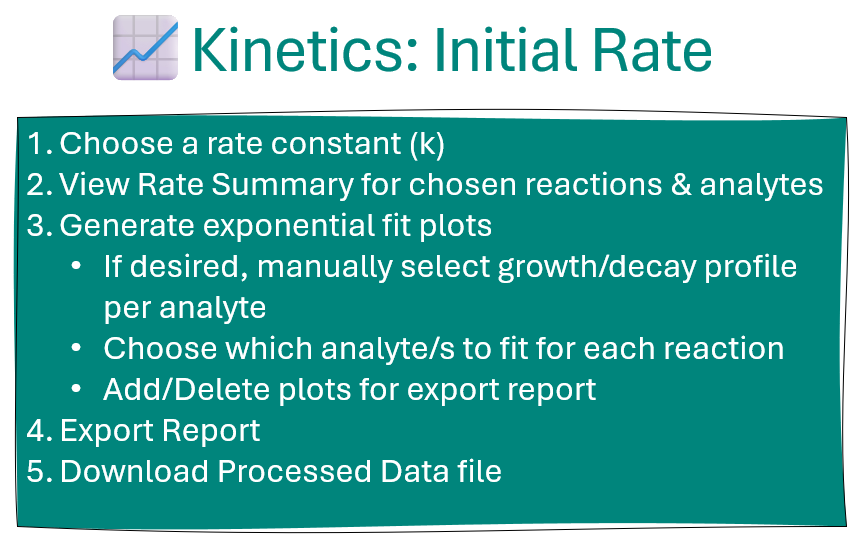
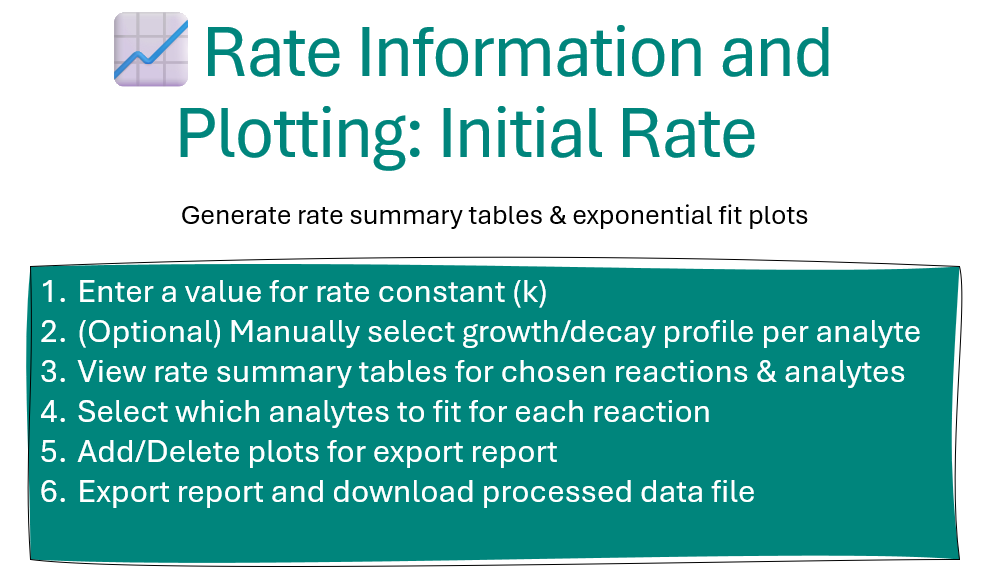
aligned instructions with final changes

diff --git a/src/page_styling/welcome_page.py b/src/page_styling/welcome_page.py
@@ -35,10 +35,12 @@ def about_main_body():
             <ul>
                 <li>Generating plate layouts from reaction conditions</li>
                 <li>Graphing Peak Area over Time</li>
-                <li>Graphing Peak Area Percent over Time</li>
+                <li>Graphing Analyte Ratio over Time</li>
                 <li>Calculating initial rates </li>
                 <li>Graphing exponential fit of reactions</li>
                 <li>Downloading plots as PNGs</li>
+                <li>Downloading report summaries as PDFs</li>
+                <li>Downloading processed data as Excel files</li>
                 <li>Solving common laboratory calculations</li>
             </ul>
        </div>
@@ -81,9 +83,9 @@ def excel_template_bytes() -> bytes:
 def help_dialog(instruction_paths):
     if instruction_paths:
         tab1, tab2, tab3, tab4 = st.tabs([
-            "Initial Input",
-            "Kinetics Main Plot",
-            "Kinetics Rate",
+            "Data Upload",
+            "Kinetics and Analyte Ratio",
+            "Initial Rate",
             "Utilities"])
         with tab1:
             st.image(str(instruction_paths[0]))
